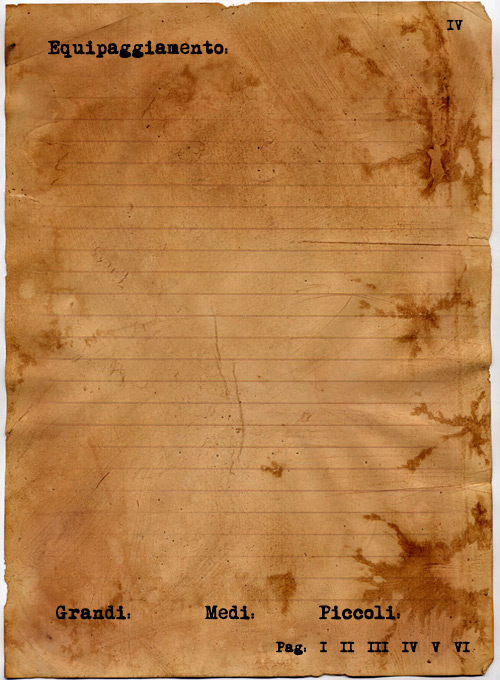
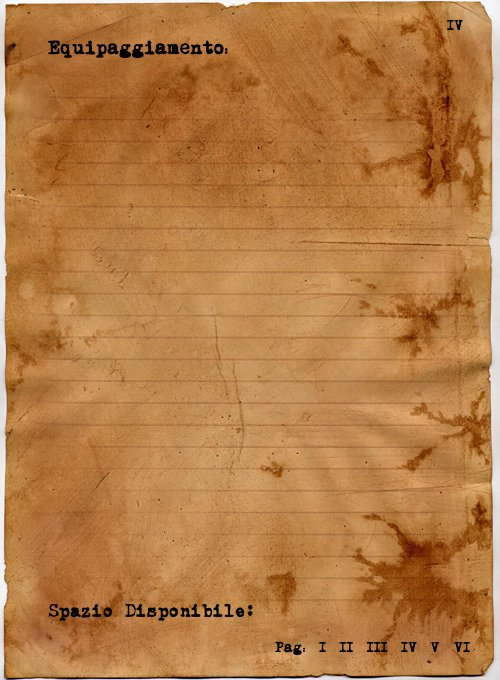
Modified equip sheet to display available space instead of object category

diff --git a/engine/sources/sheet.php b/engine/sources/sheet.php
@@ -106,13 +106,6 @@ function sheet_page_equip(){
 			$azione="";
 			$action_ok=true;
 
-			$query = $db->DoQuery("SELECT position 
-					FROM {$prefix}users WHERE username='$pg'");
-			$row_msg=$db->Do_Fetch_Assoc($query);
-			
-			if(!$row_msg)
-				die("Utente non esistente");
-
 			if(!$row['equipped']){
 				$equip_value = 1;
 				$azione="equipaggiato";
@@ -132,19 +125,15 @@ function sheet_page_equip(){
 			}
 
 			if($action_ok){
-
 				$db->DoQuery("UPDATE {$prefix}objects 
 						SET equipped='$equip_value' WHERE id='{$_GET['equiptgl']}'");
 
-				if($row_msg['position']!="Mappa" && $row_msg['position']!=""){
-					include_once("./lib/message.php");
-					$txt="L\'utente $pg ha $azione l\'oggetto $row[name]";
-					alert_room($row_msg['position'], $txt);
-				}
+				include_once("./lib/message.php");
+				$txt="L\'utente $pg ha $azione l\'oggetto $row[name]";
+				send_global_message($txt);	
 
 				header("location: index.php?act=sheet&page=equip&pg=$pg");
 			}
-
 		}
 	}
 
@@ -199,11 +188,11 @@ function sheet_page_equip(){
 			$errore = "Non puoi consegnare un oggetto che non trasporti";
 		}
 
-		$query = $db->DoQuery("SELECT position
+		$query = $db->DoQuery("SELECT username
 				FROM {$prefix}users WHERE username='$_POST[owner]'");
-		$row_msg=$db->Do_Fetch_Assoc($query);
+		$row_user=$db->Do_Fetch_Assoc($query);
 
-		if(!$row_msg) {
+		if(!$row_user) {
 			$errore = "Utente non esistente";
 		}
 		else {
@@ -266,9 +255,6 @@ function sheet_page_equip(){
 			WHERE owner='$pg' ORDER BY equipped DESC, name");
 
 	$room='';
-	$piccoli=0;
-	$medi=0;
-	$grandi=0;
 
 	while($row=$db->Do_Fetch_Assoc($query)){
 
@@ -308,15 +294,6 @@ function sheet_page_equip(){
 
 			if($row['uses']==0){
 				$obj_name .= " [inutilizzabile]";
-			}
-
-			if($row['equipped']){
-				if($row['size']==1)
-				$piccoli++;
-				if($row['size']==2)
-				$medi++;
-				if($row['size']==5)
-				$grandi++;
 			}
 
 			if(preg_match("/^key_/", $row['name']) ||
@@ -464,9 +441,7 @@ function sheet_page_equip(){
 
 	$body.="</div>\n";
 
-	$body .= '<div class="counter" id="piccoli">'. $piccoli .'</div>';
-	$body .= '<div class="counter" id="medi">'.$medi. '</div>';
-	$body .= '<div class="counter" id="grandi">'.$grandi.' </div>';
+	$body .= '<div class="counter" id="spazio">'. get_user_space($pg) .'</div>';
 
 	if($errore!=''){
 		$body.='<script language="javascript" type="text/javascript">
@@ -2309,20 +2284,11 @@ function print_sheet($body,$bg){
 				position: absolute;
 			}
 			
-			#grandi{
+			#spazio{
 				top: 602px;
-				left: 155px;
+				left: 270px;			
 			}
 			
-			#medi{
-				top: 602px;
-				left: 283px;			
-			}
-			
-			#piccoli{
-				top: 602px;
-				left: 425px;
-			}
 			#corp_name{
 				position: absolute;
 				top: 41px;
